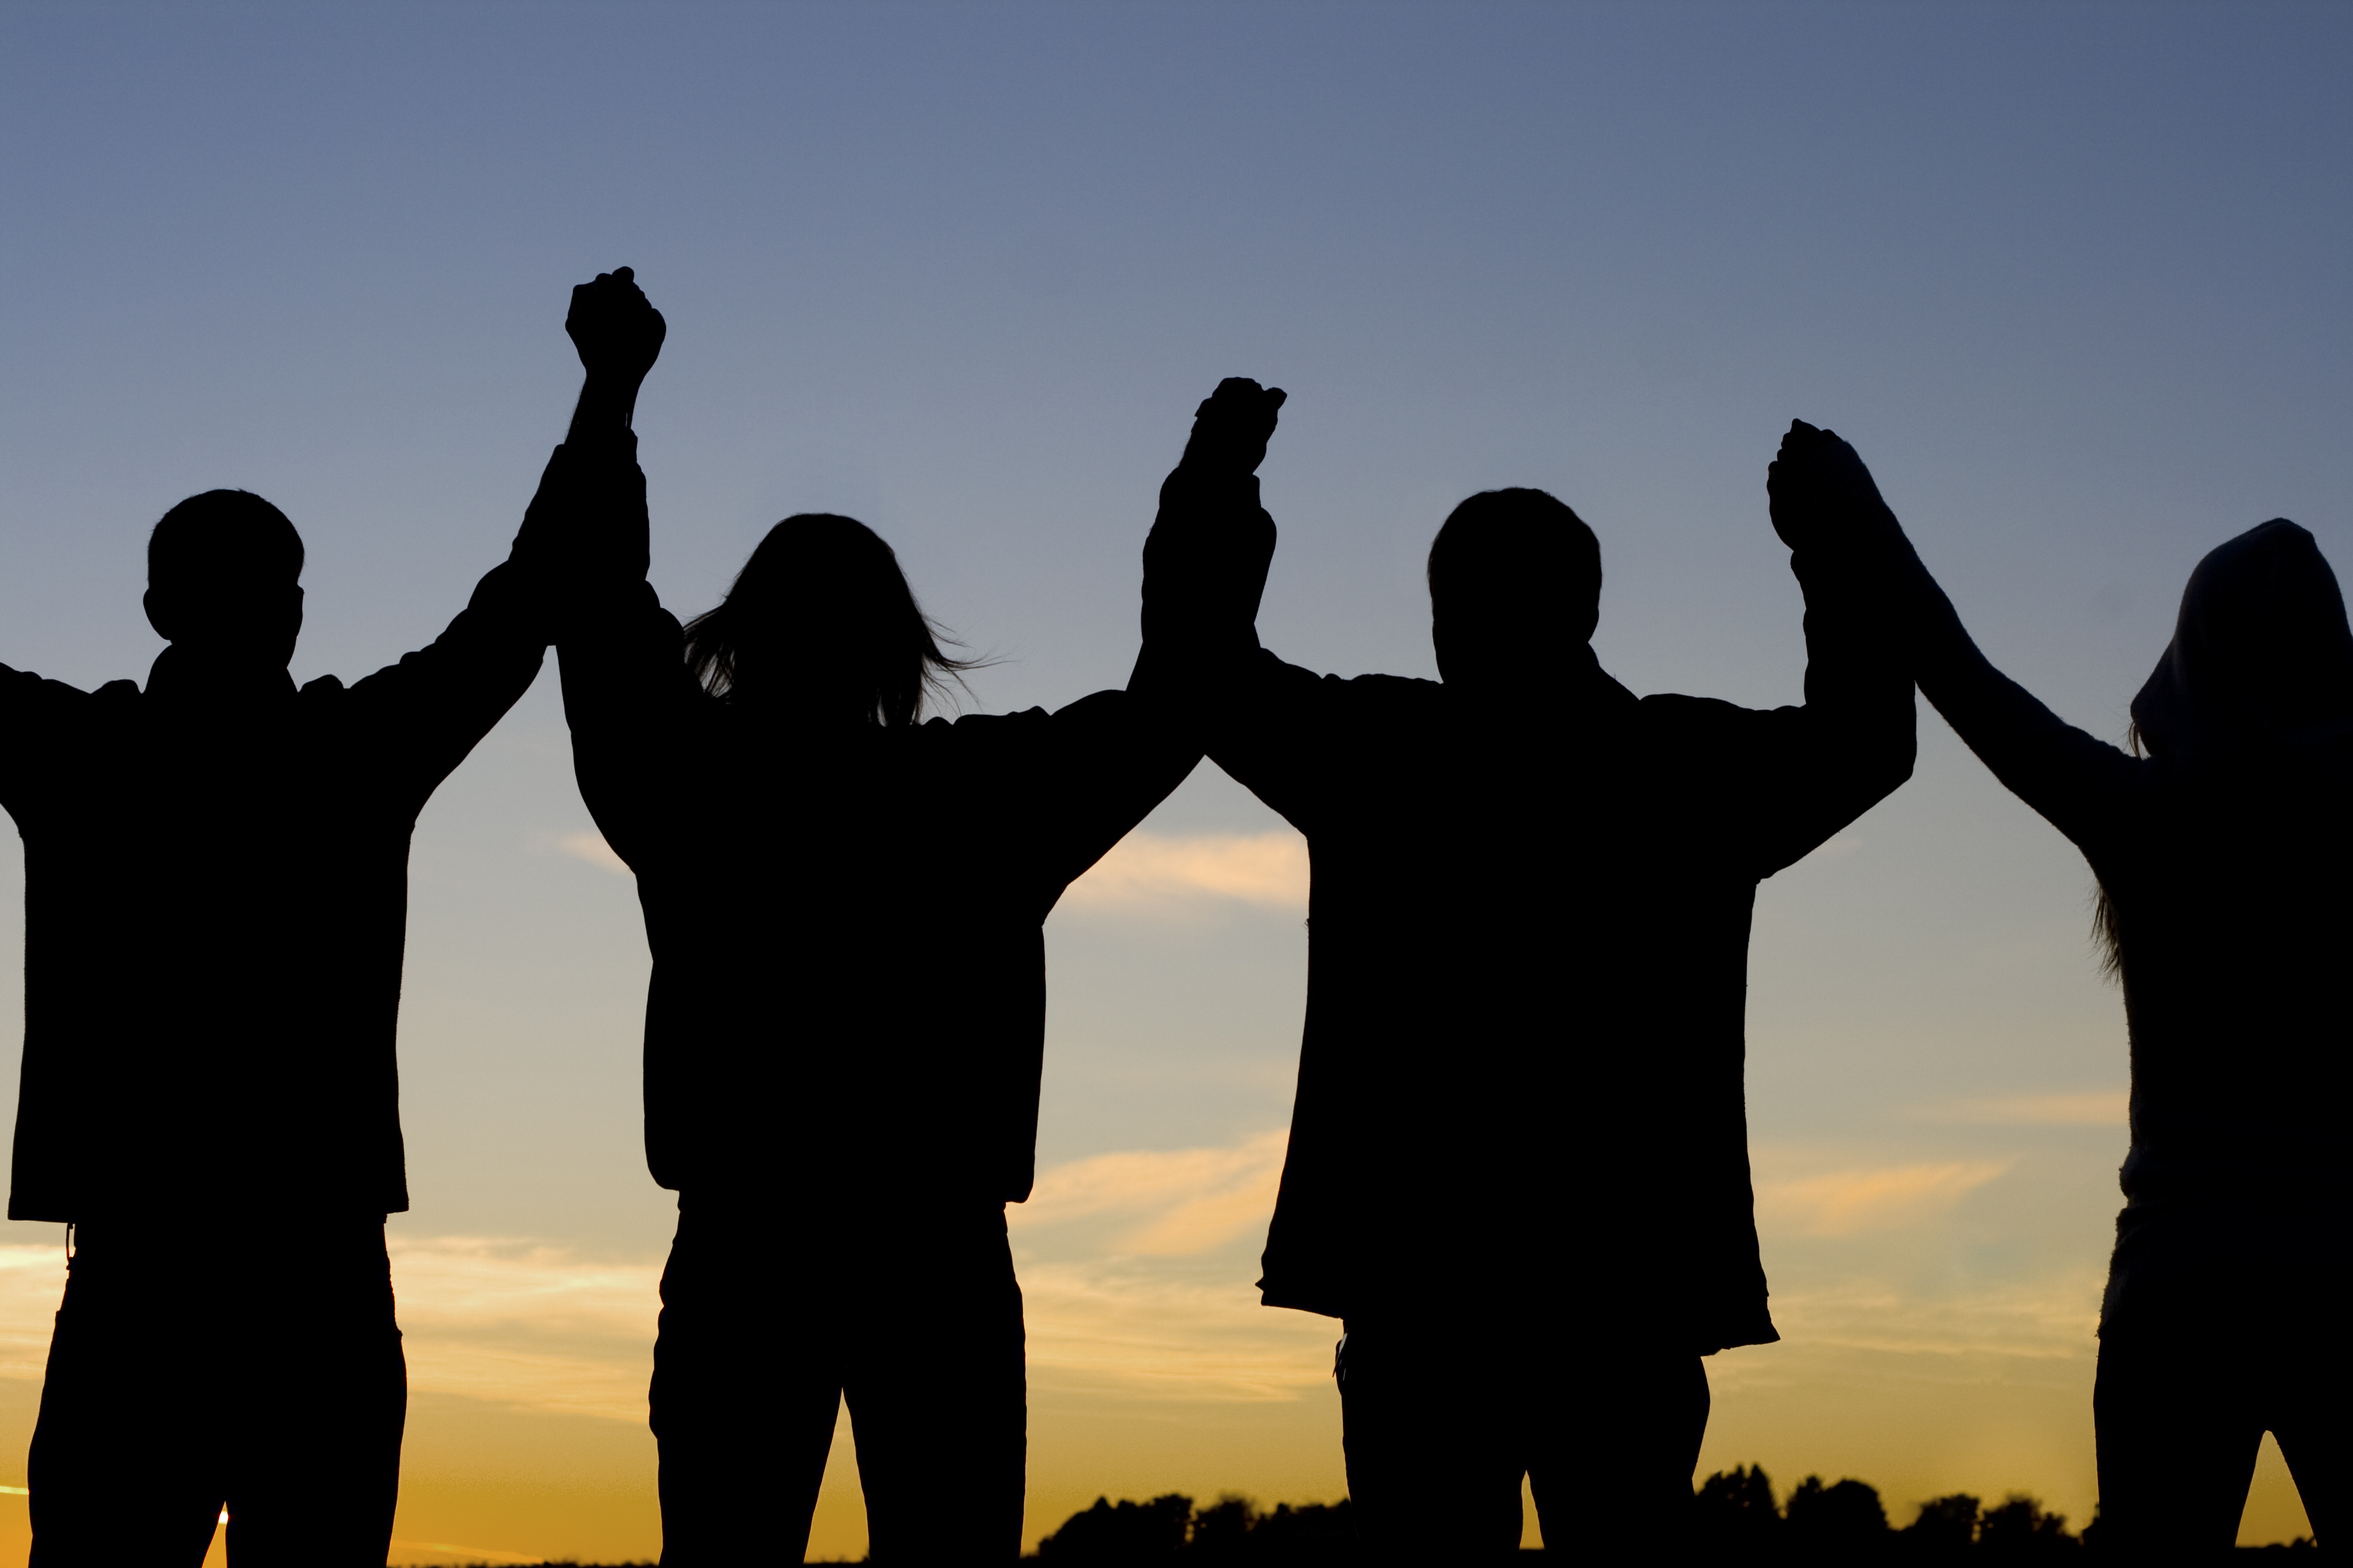
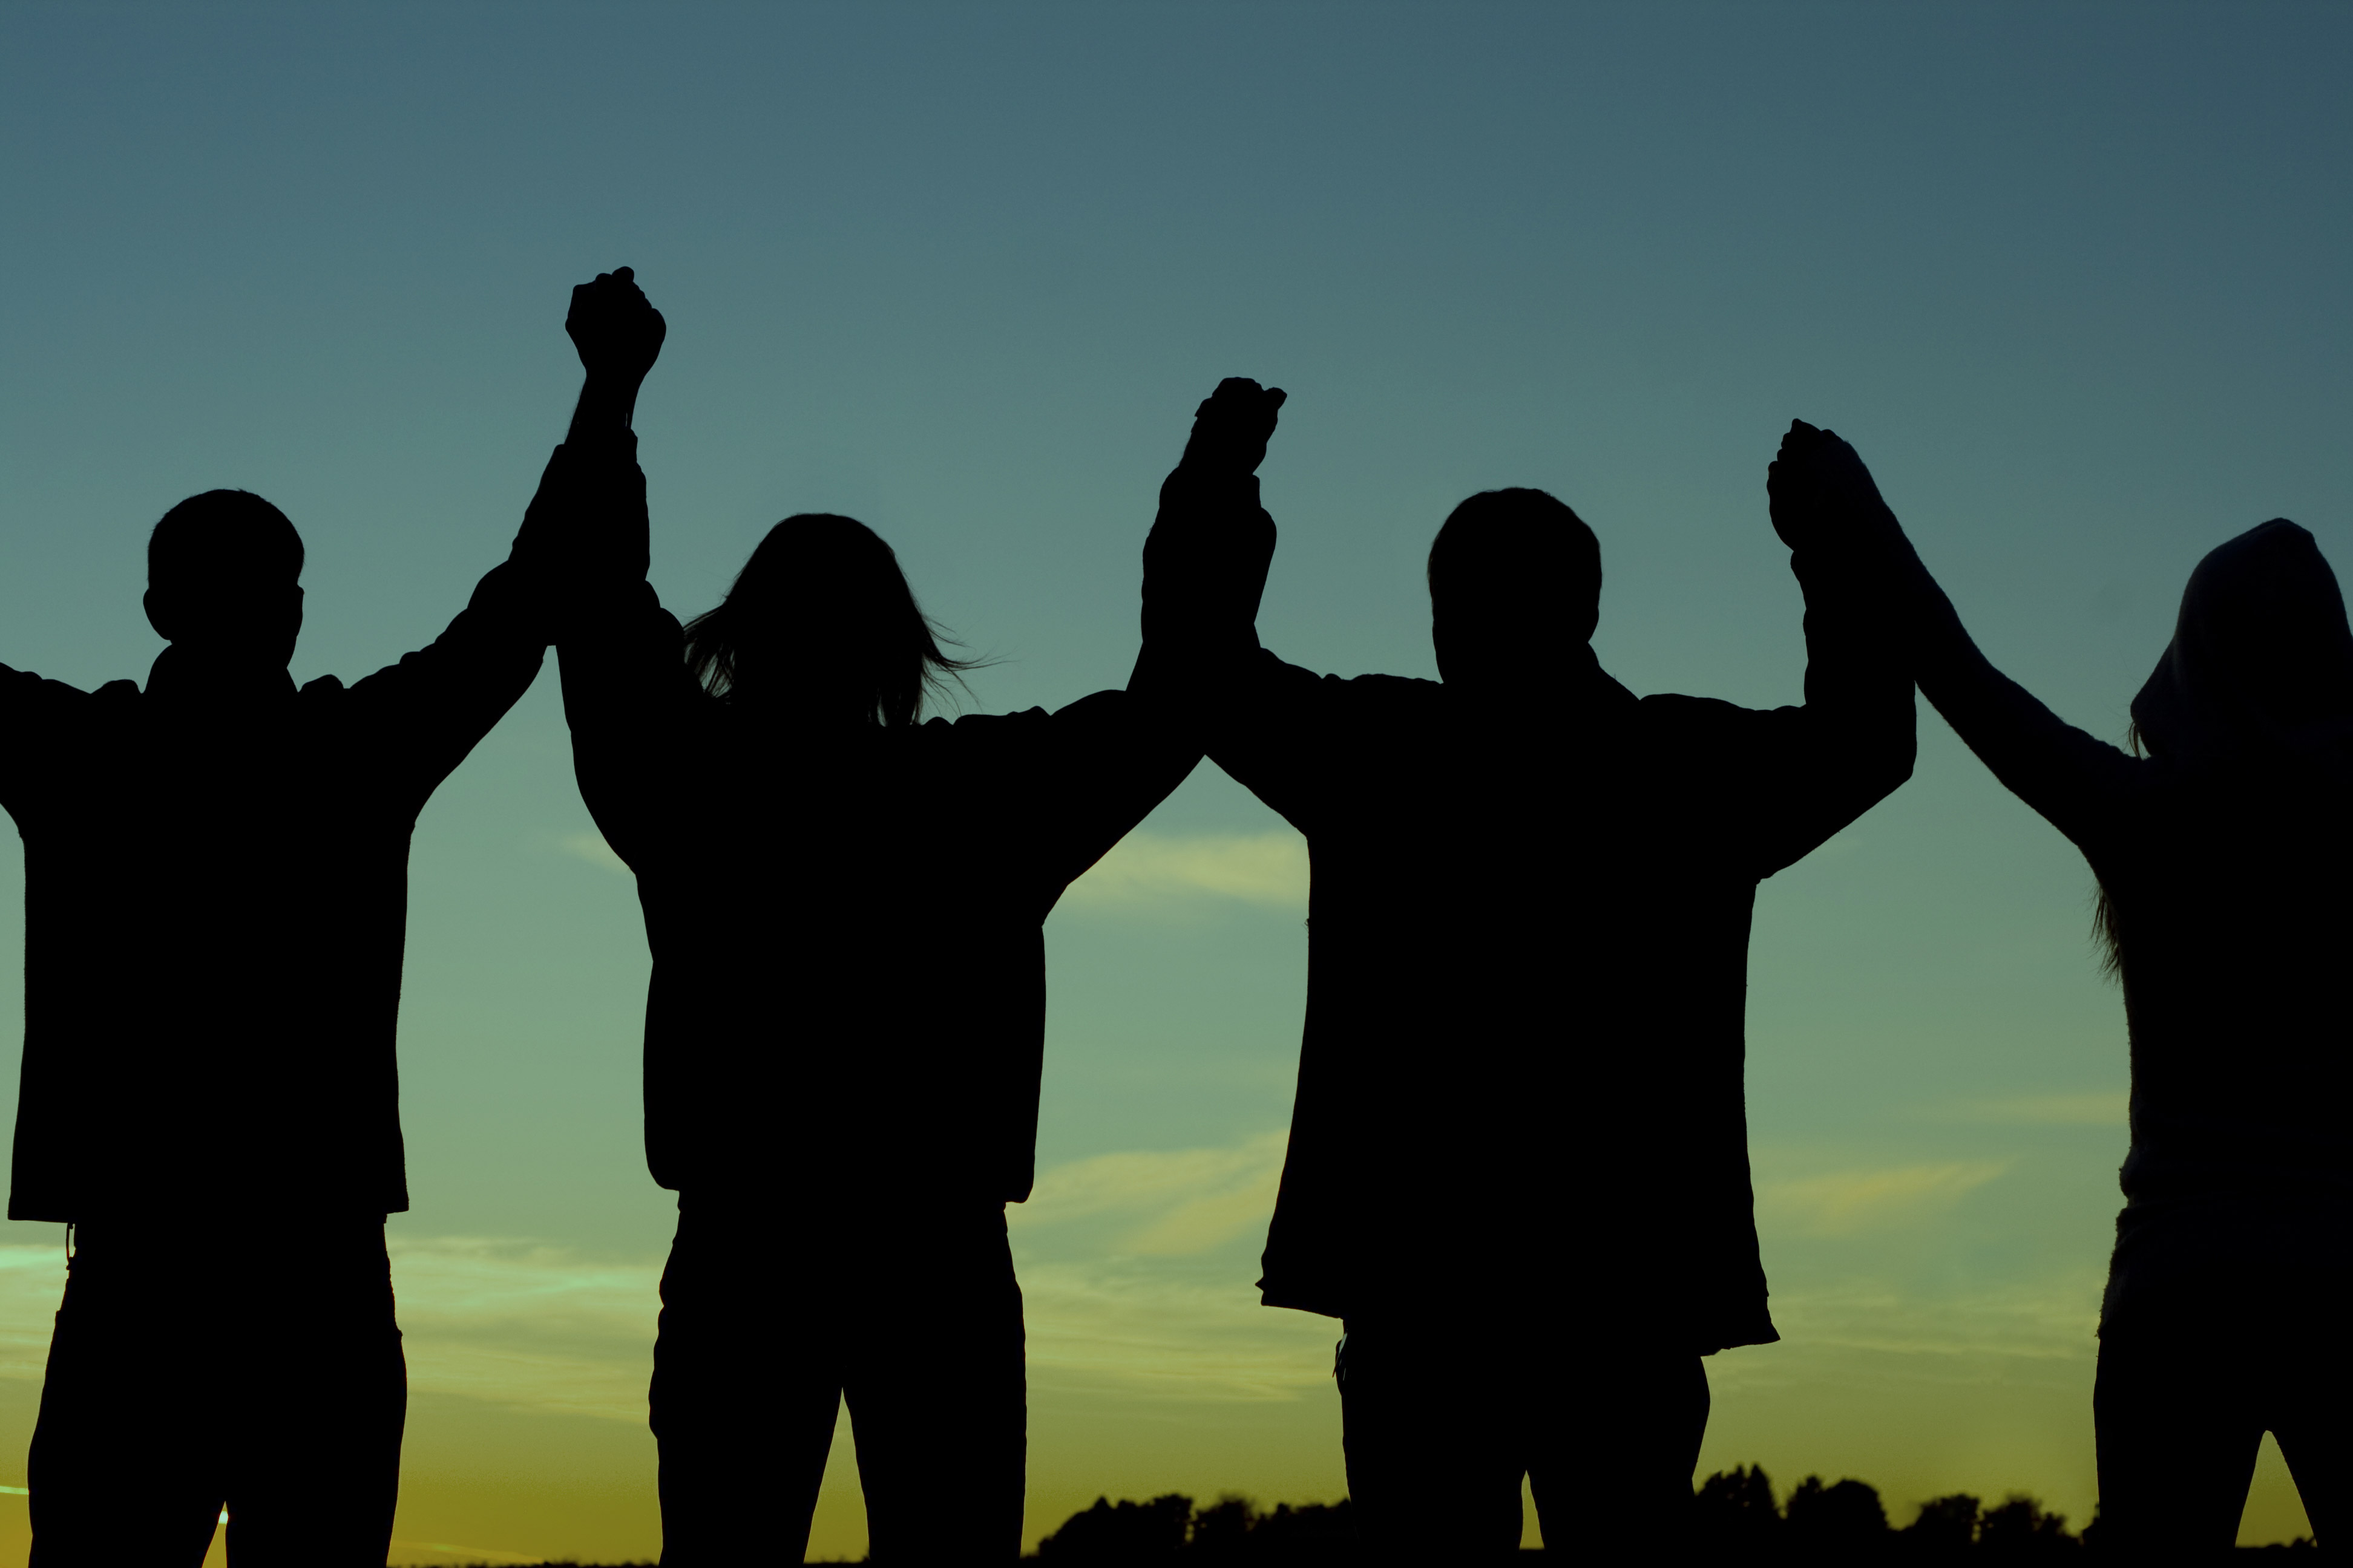
replace home image

diff --git a/index.html b/index.html
@@ -80,7 +80,7 @@
                          <div class="carousel-caption container">
                               <h1 class="animated rollIn">The Connection</h1>
                               <p class="animated rollIn">We all know someone whose life has been impacted by brain injury from...a car accident, a fall, a tumor, a stroke, a sports related head injury, a war combat head injury...</p>
-                              <a href="#who-we-are" id="tohash" class="animated rollIn btn btn-primary">Get Start</a>
+                              <a href="#who-we-are" id="tohash" class="animated rollIn btn btn-primary">Find out more</a>
                          </div>
                     </div>
                </div>
@@ -125,16 +125,16 @@
                               <!-- Nav tabs -->
                               <ul class="nav nav-tabs nav-justified" role="tablist">
                                    <li class="active">
-                                   		<a href="#story" role="tab" data-toggle="tab">Story</a>
+                                        <a href="#story" role="tab" data-toggle="tab">Story</a>
                                    </li>
                                    <li>
-                                   		<a href="#mission" role="tab" data-toggle="tab">Mission</a>
+                                        <a href="#mission" role="tab" data-toggle="tab">Mission</a>
                                    </li>
                                    <li>
-                                   		<a href="#activity" role="tab" data-toggle="tab">Activity</a>
+                                        <a href="#activity" role="tab" data-toggle="tab">Activity</a>
                                    </li>
                                    <li>
-                                   		<a href="#members" role="tab" data-toggle="tab">Members</a>
+                                        <a href="#members" role="tab" data-toggle="tab">Members</a>
                                    </li>
                               </ul>
                               <!-- Tab panes -->
@@ -153,33 +153,33 @@
                                         </p>
                                    </div>
                                    <div class="tab-pane fade " id="members">
-                                   		<div class="row">
-                                   			<div class="col-sm-6">
-                                   				<ul>
-		                                   			<li>Frances Buford</li>
-		                                   			<li>Jore Cooper</li>
-													<li>Sheri' Deel</li>
-													<li>Dr. Rod Dunker</li> 
-													<li>Dan Gaskell</li> 
-													<li>Steve Hall</li>
-													<li>Ellen Harvey</li>
-													<li>Mike Krackow</li>
-		                                   		</ul>
-                                   			</div>
-                                   			<div class="col-sm-6">
-                                   				<ul>
-                               						<li>Venetta Manson</li>   
-													<li>Wendy Moses</li>
-													<li>Denise Rose</li>        
-													<li>Stimis Smith</li>   
-													<li>Juanita Thornton, MSW</li>
-													<li>Linda Turner</li>   
-													<li>Connie Vance-Kingery</li>
-													<li>Tracey Ward</li>  
-													<li>Heather Witt</li>
-												</ul>
-                                   			</div>	                                   		
-	                                   	</div>
+                                        <div class="row">
+                                             <div class="col-sm-6">
+                                                  <ul>
+                                                       <li>Frances Buford</li>
+                                                       <li>Jore Cooper</li>
+                                                       <li>Sheri' Deel</li>
+                                                       <li>Dr. Rod Dunker</li>
+                                                       <li>Dan Gaskell</li>
+                                                       <li>Steve Hall</li>
+                                                       <li>Ellen Harvey</li>
+                                                       <li>Mike Krackow</li>
+                                                  </ul>
+                                             </div>
+                                             <div class="col-sm-6">
+                                                  <ul>
+                                                       <li>Venetta Manson</li>
+                                                       <li>Wendy Moses</li>
+                                                       <li>Denise Rose</li>
+                                                       <li>Stimis Smith</li>
+                                                       <li>Juanita Thornton, MSW</li>
+                                                       <li>Linda Turner</li>
+                                                       <li>Connie Vance-Kingery</li>
+                                                       <li>Tracey Ward</li>
+                                                       <li>Heather Witt</li>
+                                                  </ul>
+                                             </div>
+                                        </div>
                                    </div>
                               </div>
                          </div>
@@ -590,48 +590,30 @@
                          <div id="humanity-carousel" class="carousel slide" data-ride="carousel">
                               <div class="carousel-inner">
                                    <div class="item active">
-                                        <p>I can’t even walk but they have taught me to
-											stand up and drive golf balls. Adaptive Golf has
-											helped my balance, range of motion, and hand/eye
-											coordination. At Camp Bruce McCoy they had me
-											up on a horse, in a canoe, and doing archery. Both
-											of these activities have given me more confidence.</p>
+                                        <p>I can’t even walk but they have taught me to stand up and drive golf balls. Adaptive Golf has helped my balance, range of motion, and hand/eye coordination. At Camp Bruce McCoy they had me up on a horse, in a canoe, and doing archery. Both of these activities have given me more confidence.</p>
                                    </div>
                                    <div class="item">
-                                        <p>Helps me know that I am not alone. I feel a
-											responsibility to try to help other people that
-											are struggling with the burdens of something as
-											misunderstood as brain injury.
-										</p>
+                                        <p>Helps me know that I am not alone. I feel a responsibility to try to help other people that are struggling with the burdens of something as misunderstood as brain injury.
+                                        </p>
                                    </div>
                                    <div class="item">
                                         <p>Programs offered have helped me adjust to everyday life and be happy about it.
-										</p>
+                                        </p>
                                    </div>
                                    <div class="item">
-                                        <p>Support group is wonderful. I have met new
-											people with similar problems. I have fun with all
-											the people there because I have learned a lot.
-										</p>
-                                   </div>
-                                   <div class="item">
-                                        <p>
-	                                    	Over a period of years, I have benefited
-											substantially. The primary benefit has been the
-											association with survivors of brain injury at all
-											levels. It originally allowed me to focus on how I fit
-											into the world now.
-										</p>
+                                        <p>Support group is wonderful. I have met new people with similar problems. I have fun with all the people there because I have learned a lot.
+                                        </p>
                                    </div>
                                    <div class="item">
                                         <p>
-	                                    	I can’t begin to say how helpful the support
-											groups have been. As a caregiver and mother of a
-											daughter with a brain injury these meetings have
-											provided information and support when it was
-											desperately needed.
-										</p>
-                                   </div>                                   
+                                             Over a period of years, I have benefited substantially. The primary benefit has been the association with survivors of brain injury at all levels. It originally allowed me to focus on how I fit into the world now.
+                                        </p>
+                                   </div>
+                                   <div class="item">
+                                        <p>
+                                             I can’t begin to say how helpful the support groups have been. As a caregiver and mother of a daughter with a brain injury these meetings have provided information and support when it was desperately needed.
+                                        </p>
+                                   </div>
                               </div>
                               <ol class="carousel-indicators">
                                    <li data-target="#humanity-carousel" data-slide-to="0" class="active"></li>
